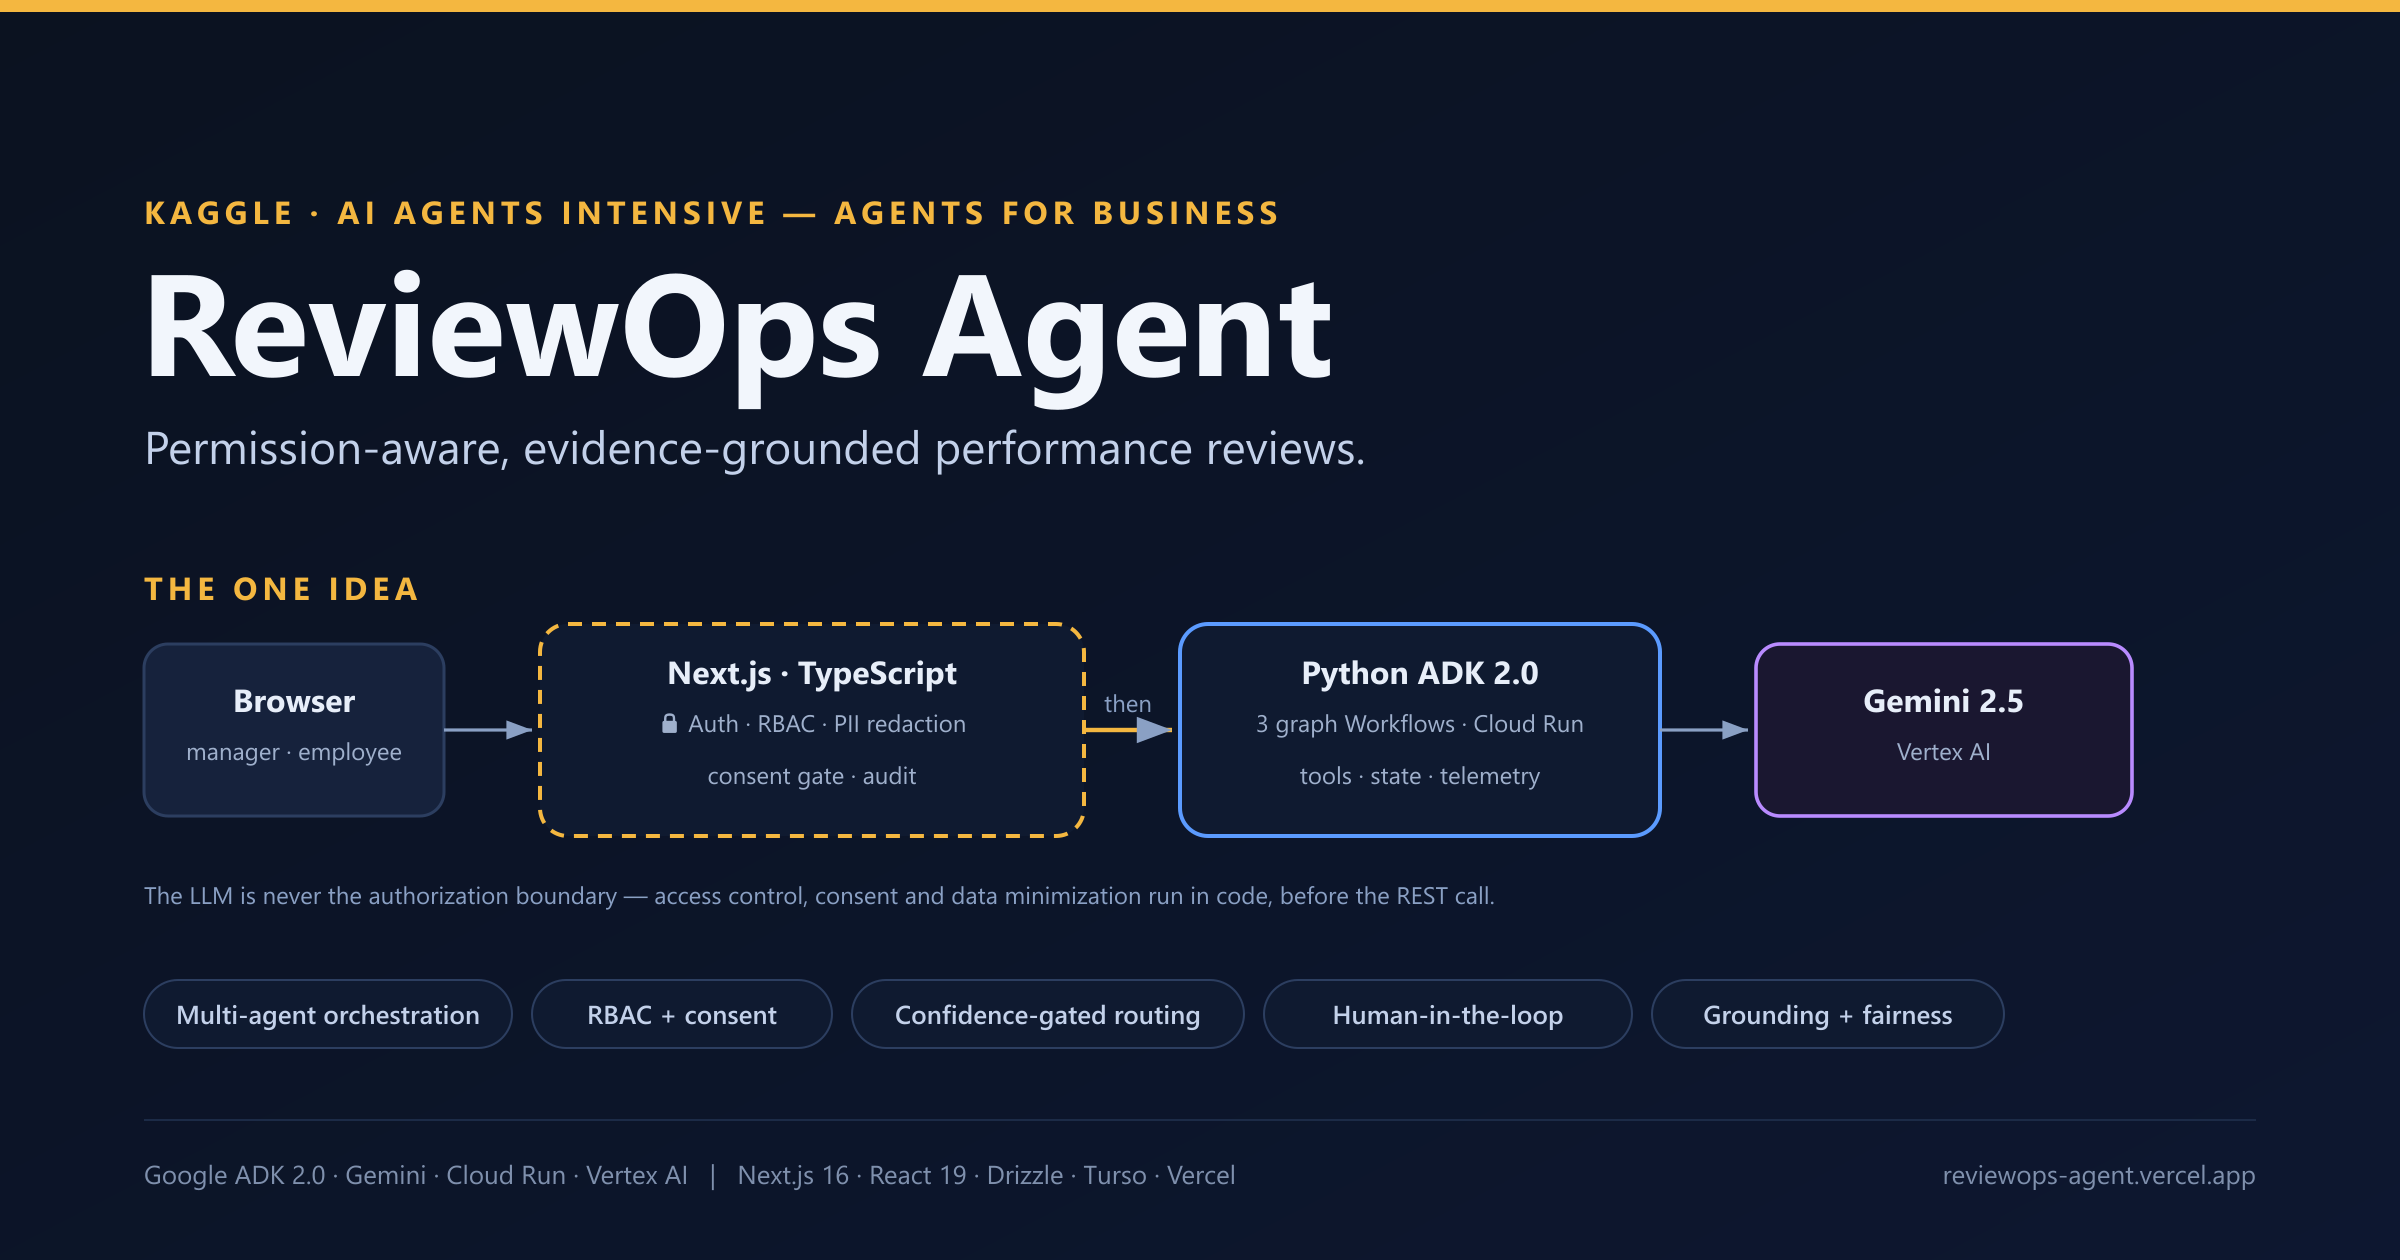
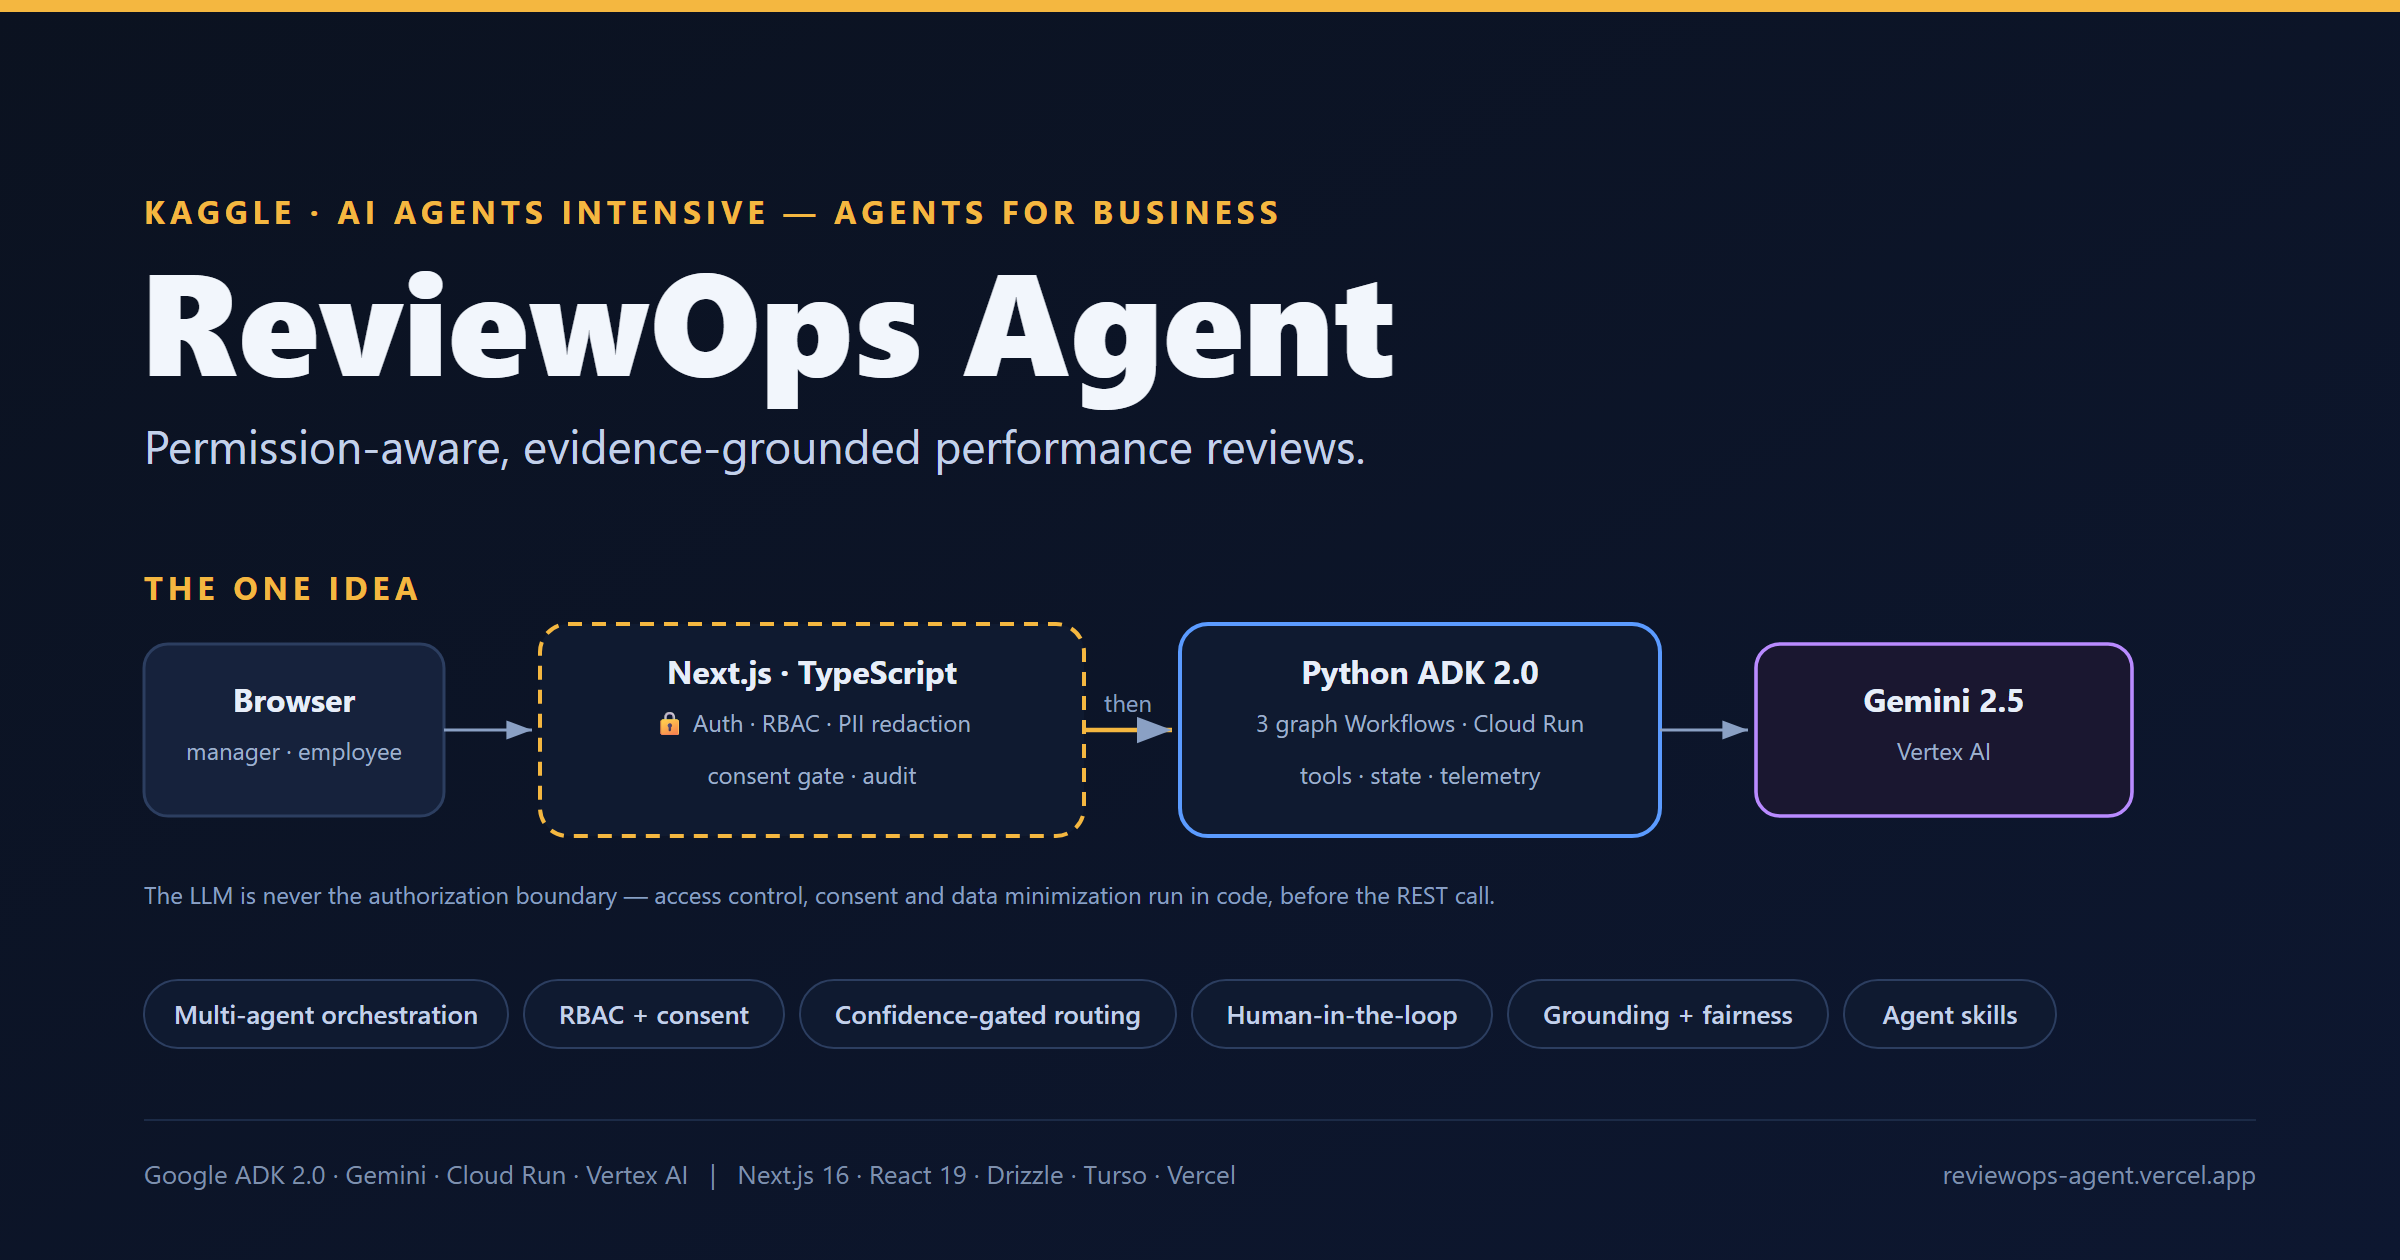
Name the whitepapers behind section 4; surface Agent Skills in the diagrams
- ARCHITECTURE.md 4.1-4.4: replace leftover "(FILE1)"/"(FILE2)" placeholder
  labels (attachment names from the original drafting session) with the
  actual Google 2026 whitepaper titles; 4.4 now correctly lists
  drafting-performance-reviews as implemented (loaded via SkillToolset),
  not a candidate
- agent-workflows.svg: review lane notes the draft agent loads the
  drafting-performance-reviews skill via SkillToolset
- cover.svg: sixth capability chip "Agent skills" (chips re-spaced);
  cover.png re-exported at 2400x1260 via Playwright chromium

diff --git a/docs/ARCHITECTURE.md b/docs/ARCHITECTURE.md
@@ -351,7 +351,7 @@ SA, never in the image or the repo.
 
 ## 4. Frameworks applied
 
-### 4.1 Security — 7-Pillar mapping (FILE1)
+### 4.1 Security — 7-Pillar mapping (from the *Vibe Coding Agent Security and Evaluation* whitepaper, Google 2026)
 
 | Pillar | ReviewOps today | Roadmap |
 | --- | --- | --- |
@@ -385,7 +385,7 @@ adds three layers:
   deliberately *not* relied on — it's browser-only and useless against direct
   HTTP clients.)
 
-### 4.2 Evaluation (FILE1 dimensions × methods)
+### 4.2 Evaluation (the same whitepaper's dimensions × methods)
 
 Relevant dimensions for ReviewOps (structured-output agents, not code-gen):
 **intent satisfaction** (does the questionnaire/review match the request),
@@ -407,19 +407,21 @@ Golden datasets exist for **all three workflows** under
 A no-GCP `tests/eval/structural_smoke.py` covers deterministic structural checks
 against the live REST service in the meantime.
 
-### 4.3 Observability (FILE1)
+### 4.3 Observability (same whitepaper)
 
 ADK 2.0 + Agent Engine emit OpenTelemetry spans (`agent.session`, `agent.think`,
 `agent.tool`) → **Cloud Trace**. The scaffolded service already wires
 `setup_telemetry()`. We trace the per-request "trajectory", measure token cost,
 and use tail-based sampling (keep error/high-correction traces).
 
-### 4.4 Skills (FILE2)
+### 4.4 Skills (from the *Agent Skills* whitepaper, Google 2026)
 
 Agents load **Skills** (folder + `SKILL.md` + scripts/references/assets,
-progressive disclosure) via ADK **`SkillToolset`**. Candidate ReviewOps skills:
-`drafting-performance-reviews`, `validating-evidence`,
-`generating-evidence-surveys`, `fairness-grounding-check`. Each follows
+progressive disclosure) via ADK **`SkillToolset`**. **Implemented:**
+`drafting-performance-reviews` (`SKILL.md` + grounding rules + 3 eval cases,
+loaded by `review_draft_agent` via `SkillToolset`). **Candidates:**
+`validating-evidence`, `generating-evidence-surveys`,
+`fairness-grounding-check`. Each follows
 **EDD** (3 JSON eval cases before the SKILL.md), a sharp `description` (trigger +
 when-NOT), and the eval-coverage checklist (trigger / execution / regression /
 token-budget). Skills compose with MCP (know-how vs reach), and deterministic